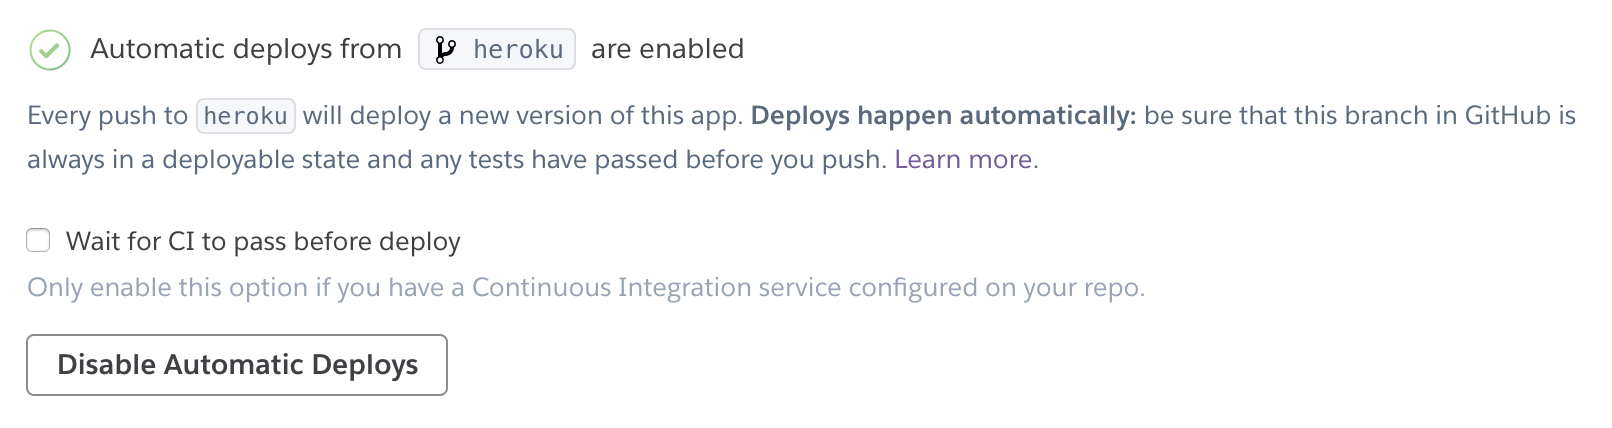
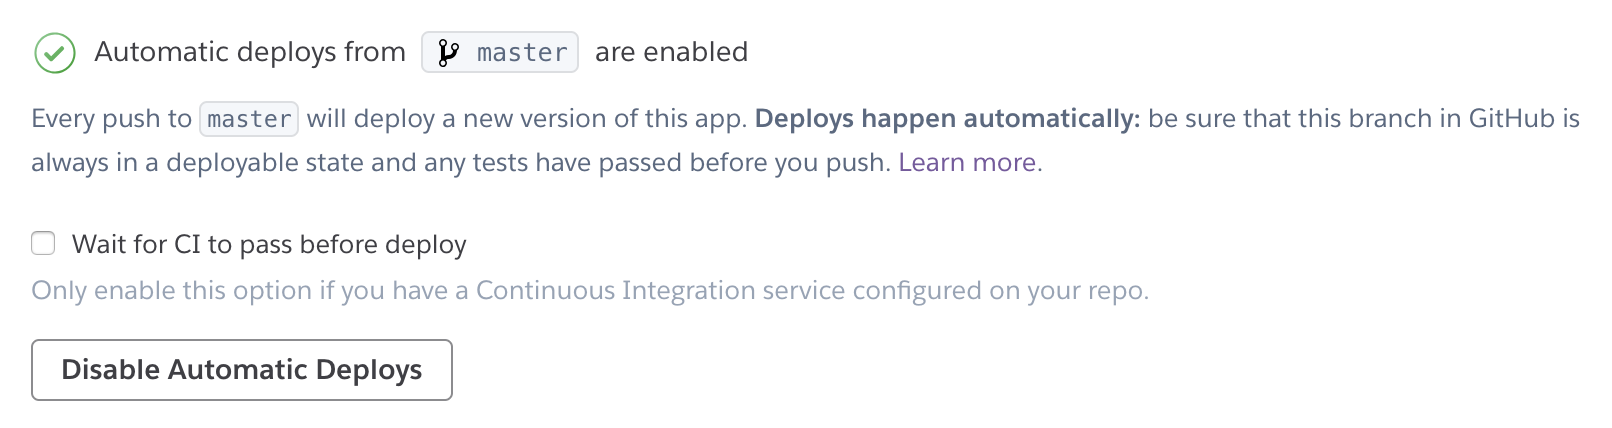
Update README images

diff --git a/README.md b/README.md
@@ -216,9 +216,9 @@ Even if the repository is private, the published site with **GitHub Pages is alw
 
 ### That's it!
 
-Just run `npm run deploy-heroku` from you local.
+Just run `npm run deploy` from you local.
 
-This task will build the project and will push the generated site to the `heroku` branch.
+This task will build the project and will push the generated site to the `master` branch.
 
 Now you can go back to your Heroku App and configure it to `enable automatic deploys from GitHub` from `Deploy` tab.
 
